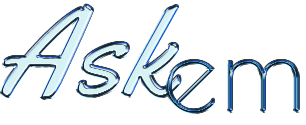
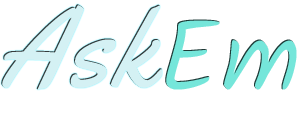
added home page

diff --git a/frontend/src/components/appHeader.vue b/frontend/src/components/appHeader.vue
@@ -2,7 +2,6 @@
     <div class="app-header-div flex">
     <router-link to="/"><img src="@/assets/images/askem.png" alt="Link to home page"></router-link>
     <nav class="main-nav flex">
-      <router-link to="/">Home</router-link> 
       <router-link to="/about">About</router-link> 
       <router-link to="/survey/list">Survey List</router-link> 
       <router-link to="/profile">User Details</router-link> 

diff --git a/frontend/src/styles/components/_appHeader.scss b/frontend/src/styles/components/_appHeader.scss
@@ -19,8 +19,11 @@
     }
 
     img {
-        width: 150px;
-        height: 60px;
+        // width: 150px;
+        // height: 60px;
+
+        width: 100px;
+        height: 50px;
         margin-right: 7rem;
     }
 
